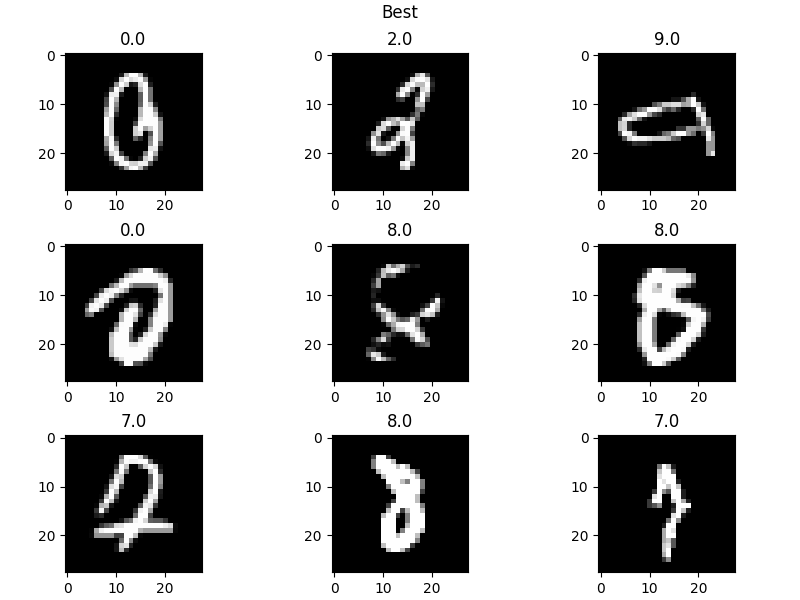
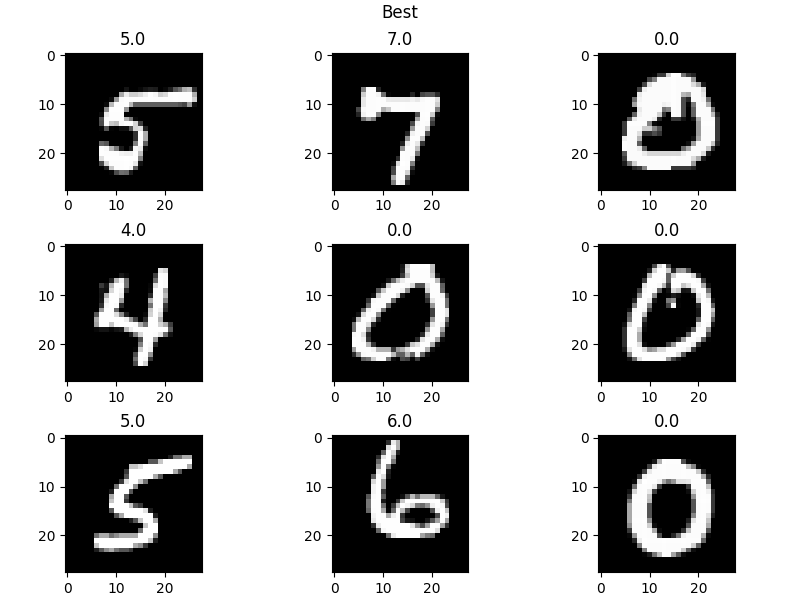
fix best mnist

diff --git a/src/neural_networks/mnist.py b/src/neural_networks/mnist.py
@@ -104,7 +104,7 @@ def select_worst_best(actual_values, predicted_values, predicted_probabilities, 
     stacked_correct = stacked_correct[stacked_correct[:, 2].argsort()]
     stacked_wrong = stacked_wrong[stacked_wrong[:, 2].argsort()]
 
-    most_correct_guesses = stacked_correct[:9]
+    most_correct_guesses = stacked_correct[-9:]
     most_incorrect_guesses = stacked_wrong[-9:]
     return most_incorrect_guesses, most_correct_guesses
 
